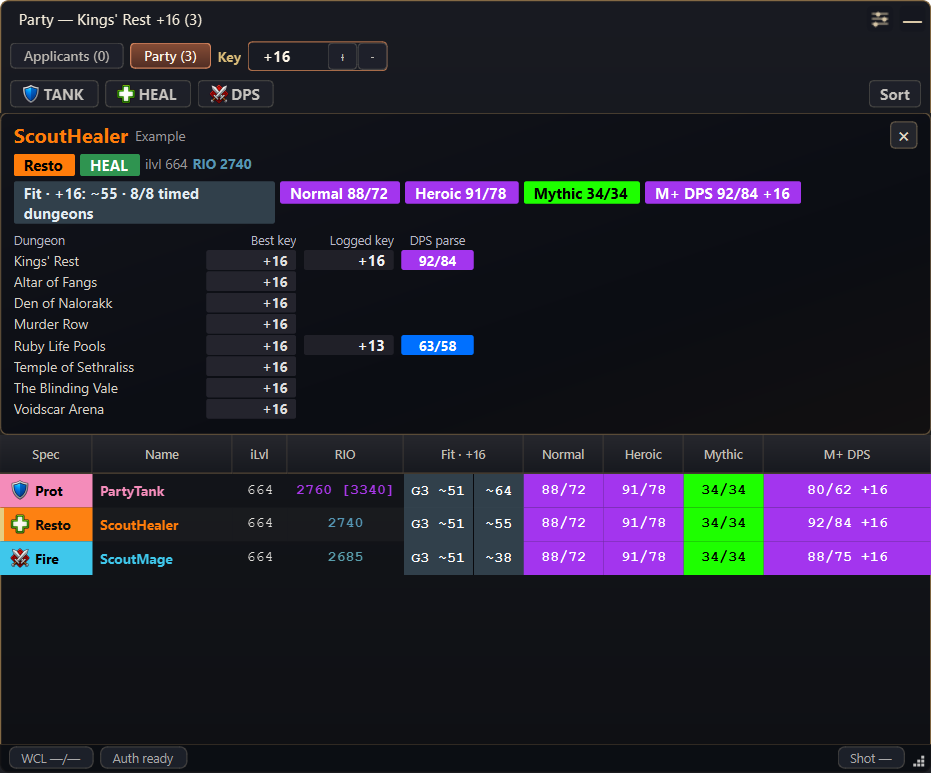
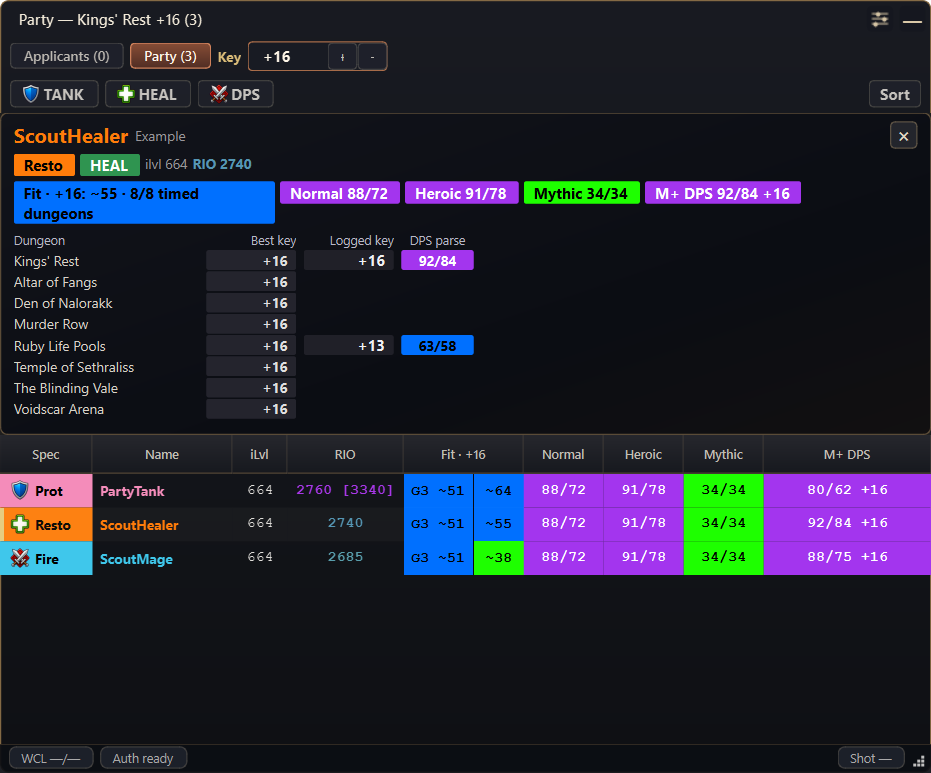
docs: show coloured Fit estimates in overlay previews [skip ci]

Changed region(s): [[0.0, 0.2173, 0.3115, 0.3105], [0.4361, 0.5899, 0.5607, 0.7451], [0.4361, 0.4347, 0.4984, 0.4657]]

diff --git a/README.md b/README.md
@@ -85,7 +85,7 @@ Normal, Heroic, Mythic, and M+ results use the applying specialization.
 WCL percentiles keep their usual colours. Missing logs are marked as missing;
 tooltips explain best/median values and limited samples.
 
-**Fit**, shown as a neutral estimate such as **~65**, describes verified in-time
+**Fit**, shown as a coloured estimate such as **~65**, describes verified in-time
 key experience for Mythic+ or available raid output evidence. It is not an overall
 skill rating, success probability or Warcraft Logs percentile. Missing evidence
 stays unknown; incomplete grouped applications show `partial`. Hover Fit for
